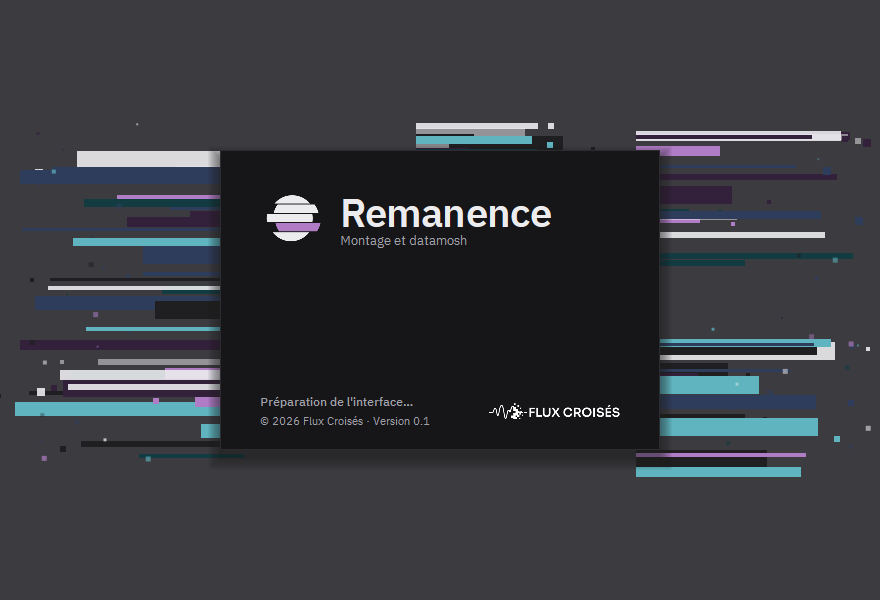
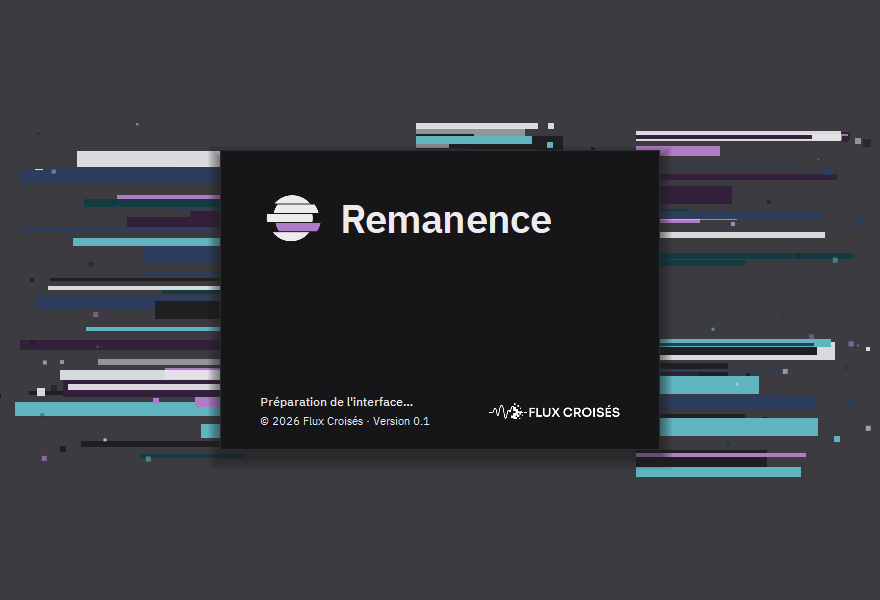
Écran de démarrage : sans sous-titre, nom centré sur le symbole

Changed region(s): [[0.3682, 0.33, 0.6443, 0.42], [0.3068, 0.66, 0.4909, 0.72]]

diff --git a/remanence/ui/demarrage.py b/remanence/ui/demarrage.py
@@ -97,10 +97,8 @@ class EcranDemarrage(QWidget):
         nom.setLetterSpacing(QFont.AbsoluteSpacing, -0.8)
         p.setFont(nom)
         p.setPen(c.c("ink"))
-        p.drawText(QRectF(g + 80, haut + 4, 300, 44), Qt.AlignLeft | Qt.AlignVCenter, "Remanence")
-        p.setFont(c.police("body"))
-        p.setPen(c.c("ink-muted"))
-        p.drawText(QRectF(g + 80, haut + 46, 300, 18), Qt.AlignLeft, "Montage et datamosh")
+        # Nom centré verticalement sur le symbole de 64 px.
+        p.drawText(QRectF(g + 80, haut, 320, 64), Qt.AlignLeft | Qt.AlignVCenter, "Remanence")
 
         # Bas de la carte : l'étape de chargement, puis copyright et version ; l'éditeur à droite.
         gauche = QRectF(g, CARTE.bottom() - 58, CARTE.width() - 80, 18)

diff --git a/CLAUDE.md b/CLAUDE.md
@@ -12,7 +12,7 @@ Logiciel Windows de montage vidéo orienté datamosh et glitch art, dans l'espri
 ## Éditeur
 
 - Remanence est édité par l'association de Lewis, Flux Croisés (`EDITEUR` dans `remanence/__init__.py`) : mentionné sur l'écran de démarrage et dans À propos. Son logo, blanc sur fond transparent, est `UI/charte/assets/Logos/flux-croises-blanc.png` (fourni par Lewis le 1er novembre 2026) ; sans ce fichier, le nom est écrit en texte.
-- Écran de démarrage volontairement sobre, comme celui d'After Effects : symbole et nom, ligne de chargement, « © 2026 Flux Croisés · Version » (demandé par Lewis), logo de l'éditeur. Les licences sont dans À propos.
+- Écran de démarrage volontairement sobre, comme celui d'After Effects : symbole et nom centrés l'un sur l'autre, sans sous-titre, ligne de chargement, « © 2026 Flux Croisés · Version » (demandé par Lewis), logo de l'éditeur. Les licences sont dans À propos.
 
 ## Règles de travail
 
